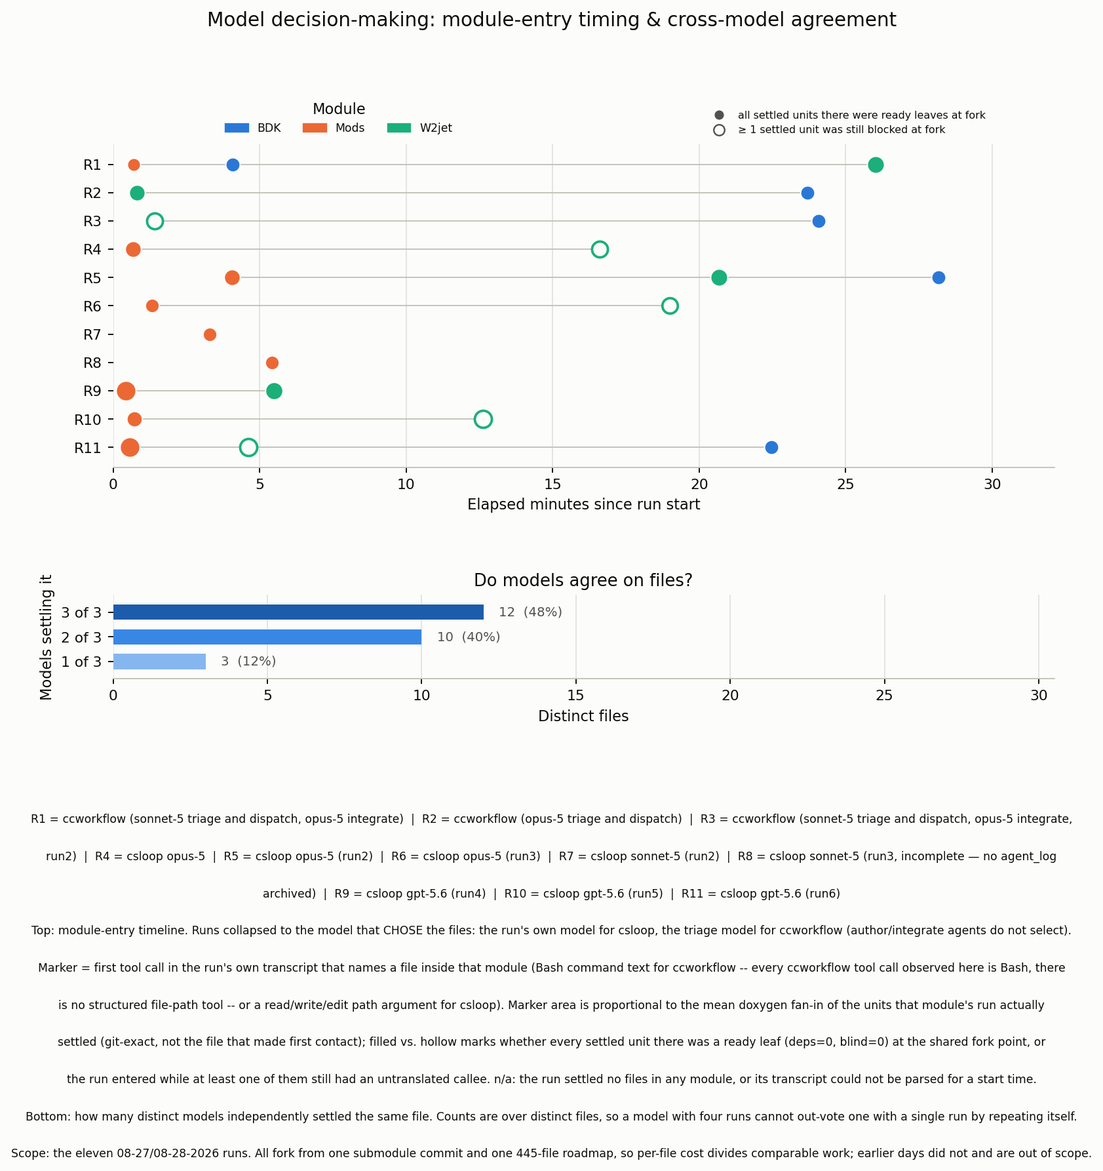
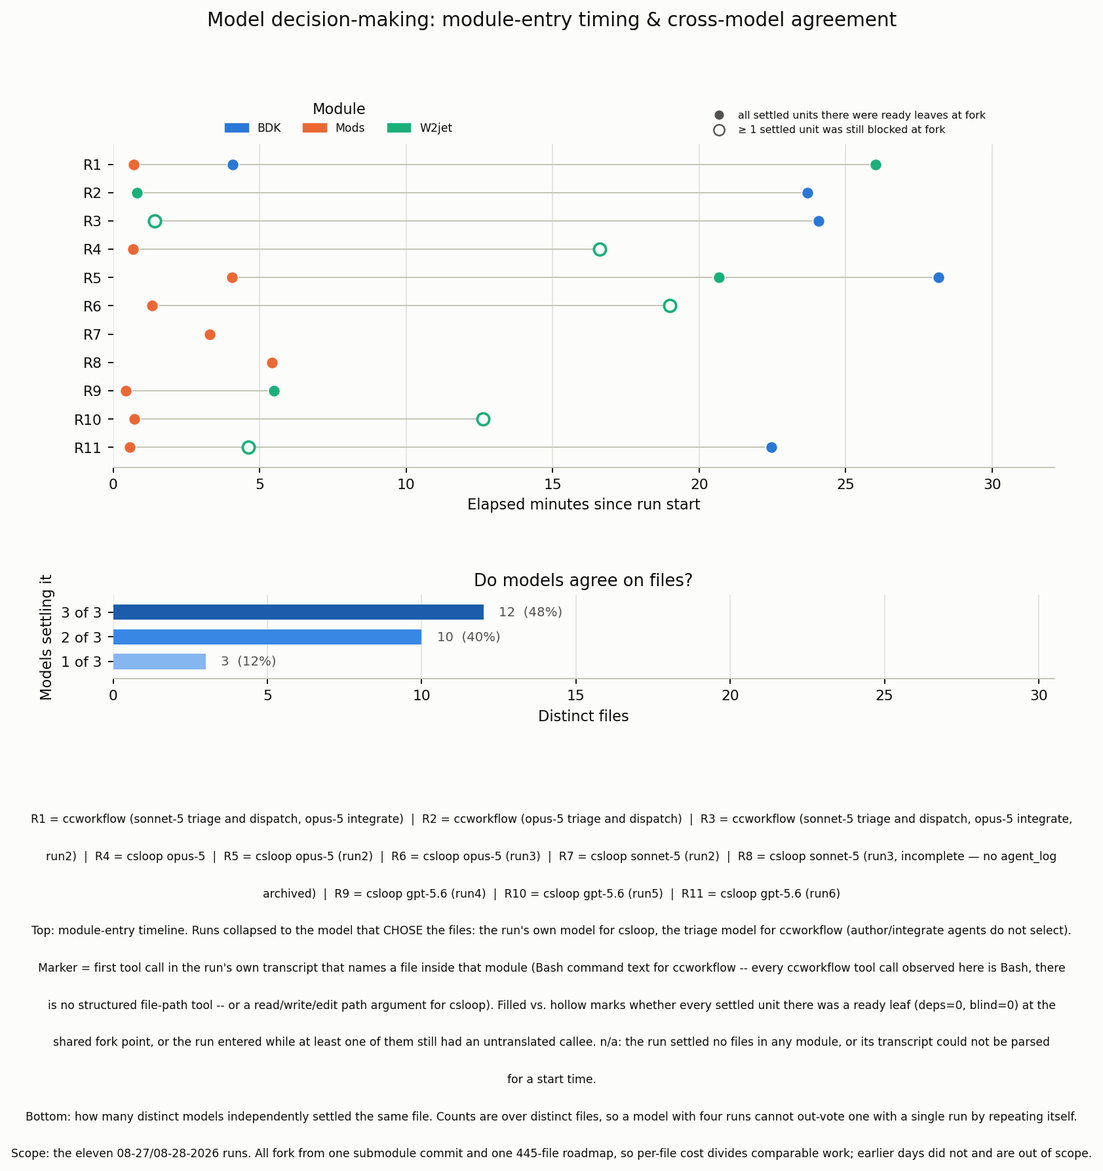
Fix figures after a review

diff --git a/evals/analysis/generate_graphs.py b/evals/analysis/generate_graphs.py
@@ -1094,12 +1094,12 @@ def load_module_timelines(translated_units, attrs):
     return out
 
 
-def _timeline_marker_size(fanin_mean):
-    """Scatter `s` (an AREA in points^2) from mean fan-in, sqrt-scaled so the
-    drawn area — not the radius — tracks the value. A module whose settled
-    units carry no recovered doxygen attributes at all draws at the floor size
-    rather than vanishing."""
-    return 34 if fanin_mean is None else 34 + 46 * (fanin_mean ** 0.5)
+TIMELINE_MARKER_SIZE = 60
+"""Scatter `s` (points^2), constant across markers. Fan-in used to set marker
+area (sqrt-scaled) as a third encoded dimension alongside color (module) and
+fill/hollow (ready-leaf); dropped because three simultaneous encodings on one
+small scatter read as clutter rather than signal, and the fan-in values
+themselves are already discussed in the surrounding text."""
 
 
 def draw_module_timeline_panel(ax, timelines, letter=None):
@@ -1122,13 +1122,12 @@ def draw_module_timeline_panel(ax, timelines, letter=None):
         ax.plot(xs, [y] * len(xs), color=AXIS, lw=0.8, zorder=1)
         for e in entries:
             color = MODULE_COLOR.get(e["module"], MUTED)
-            size = _timeline_marker_size(e["fanin_mean"])
             all_ready = e["n_settled"] > 0 and e["n_ready_leaf"] == e["n_settled"]
             if all_ready:
-                ax.scatter([e["elapsed_min"]], [y], s=size, color=color, zorder=3,
+                ax.scatter([e["elapsed_min"]], [y], s=TIMELINE_MARKER_SIZE, color=color, zorder=3,
                            edgecolor=SURFACE, linewidth=0.8)
             else:
-                ax.scatter([e["elapsed_min"]], [y], s=size, facecolor=SURFACE, zorder=3,
+                ax.scatter([e["elapsed_min"]], [y], s=TIMELINE_MARKER_SIZE, facecolor=SURFACE, zorder=3,
                            edgecolor=color, linewidth=1.6)
 
     ax.set_yticks(range(len(KEYS)))
@@ -1199,12 +1198,11 @@ def make_decision_figure(translated_units, decision_models, module_timelines):
         + _wrap_caption_text(
             "Marker = first tool call in the run's own transcript that names a file inside that module "
             "(Bash command text for ccworkflow -- every ccworkflow tool call observed here is Bash, there "
-            "is no structured file-path tool -- or a read/write/edit path argument for csloop). Marker "
-            "area is proportional to the mean doxygen fan-in of the units that module's run actually "
-            "settled (git-exact, not the file that made first contact); filled vs. hollow marks whether "
-            "every settled unit there was a ready leaf (deps=0, blind=0) at the shared fork point, or the "
-            "run entered while at least one of them still had an untranslated callee. n/a: the run "
-            "settled no files in any module, or its transcript could not be parsed for a start time.", 9.6)
+            "is no structured file-path tool -- or a read/write/edit path argument for csloop). Filled vs. "
+            "hollow marks whether every settled unit there was a ready leaf (deps=0, blind=0) at the "
+            "shared fork point, or the run entered while at least one of them still had an untranslated "
+            "callee. n/a: the run settled no files in any module, or its transcript could not be parsed "
+            "for a start time.", 9.6)
         + [
             "Bottom: how many distinct models independently settled the same file. Counts are over "
             "distinct files, so a model with four runs cannot out-vote one with a single run by "
@@ -1924,13 +1922,55 @@ def _panel_frontier(metrics):
         "]\n"
     ]
 
-    # Label placement is a small packing problem, not an alternation. The csloop
-    # points cluster inside about 1mm of each other at the printed panel width,
-    # so a fixed rule (all labels above, or above/below by x order) puts two
-    # labels in the same place whenever the y ordering disagrees with the x
-    # ordering, which it does here. Instead each label tries eight positions
-    # around its mark and takes the first that hits neither another mark nor an
-    # already-placed label.
+    # Six csloop runs land within about a tenth of the axis range of each
+    # other -- individually legible labels for all six is not a placement
+    # problem to solve harder, it is a claim the panel cannot back: at this
+    # scale the six really are indistinguishable, which is exactly what the
+    # text says about them. So a tight group (>=3 points within CLUSTER_TOL
+    # of each other in both dimensions, Chebyshev-style) gets its marks
+    # plotted but not individually labeled; one compact note names the group
+    # instead, the same mechanism already used below for off-scale and
+    # unplotted runs.
+    CLUSTER_TOL = 0.1
+
+    def _norm(x, y):
+        return x / xmax, y / ymax
+
+    def _cluster_group(points):
+        n = len(points)
+        parent = list(range(n))
+
+        def find(a):
+            while parent[a] != a:
+                a = parent[a]
+            return a
+
+        for i in range(n):
+            xi, yi = _norm(points[i][0], points[i][1])
+            for j in range(i + 1, n):
+                xj, yj = _norm(points[j][0], points[j][1])
+                if abs(xi - xj) < CLUSTER_TOL and abs(yi - yj) < CLUSTER_TOL:
+                    ra, rb = find(i), find(j)
+                    if ra != rb:
+                        parent[ra] = rb
+        groups = {}
+        for i in range(n):
+            groups.setdefault(find(i), []).append(i)
+        clustered = set()
+        for g in groups.values():
+            if len(g) >= 3:
+                clustered.update(g)
+        return clustered
+
+    cluster_idx = _cluster_group(on_scale)
+    cluster_pts = [on_scale[i] for i in sorted(cluster_idx)]
+    labeled_scale = [p for i, p in enumerate(on_scale) if i not in cluster_idx]
+
+    # Label placement is a small packing problem, not an alternation. A fixed
+    # rule (all labels above, or above/below by x order) puts two labels in
+    # the same place whenever the y ordering disagrees with the x ordering.
+    # Instead each label tries eight positions around its mark and takes the
+    # first that hits neither another mark nor an already-placed label.
     #
     # Labels carry the full bold run code ("R3", not "3"). An earlier version
     # dropped the "R" to fit sixteen runs into this panel; at seven there is
@@ -1939,8 +1979,13 @@ def _panel_frontier(metrics):
     #
     # Geometry is done in axis fractions so x and y are comparable. The label
     # box is measured for a two-character bold \scriptsize code at the printed
-    # panel size; a three-character code (R10 and up) would need LABEL_W raised.
+    # panel size; a three-character code (R10, R11) gets a proportionally
+    # wider box below so it doesn't sit closer to its neighbors or the axis
+    # than its printed width actually is.
     LABEL_W, LABEL_H, MARK_R = 0.075, 0.085, 0.022
+
+    def _label_w(code):
+        return LABEL_W if len(code) <= 2 else LABEL_W * len(code) / 2
     # (anchor, dx, dy) in half-box units, in preference order: directly above or
     # below first, since those keep the label over its own x position.
     CANDIDATES = [
@@ -1949,9 +1994,14 @@ def _panel_frontier(metrics):
         ("south west", 0.8, 0.8), ("south east", -0.8, 0.8),
         ("north west", 0.8, -0.8), ("north east", -0.8, -0.8),
     ]
-
-    def _norm(x, y):
-        return x / xmax, y / ymax
+    # csloop's opus-5/gpt-5.6 runs (R4, R9, R10, R11) land within a few percent
+    # of xmax/ymax of each other, close enough that no candidate at the base
+    # reach clears both the marks and one another. Rather than accept the
+    # overlap, each ring below pushes the label twice as far from its mark as
+    # the last; a label placed beyond the first ring gets a thin leader line
+    # back to its mark so it still reads as that point's label rather than a
+    # stray number floating nearby.
+    RING_MULTS = [1.0, 2.0, 3.5, 5.0]
 
     marks = [_norm(x, y) for x, y, _, _ in on_scale]
 
@@ -1962,35 +2012,46 @@ def _panel_frontier(metrics):
 
     placed_boxes = []
     place_of = {}
-    for (px, py, code, _) in on_scale:
+    leader_of = {}
+    for (px, py, code, _) in labeled_scale:
         nx, ny = _norm(px, py)
-        best, best_cost = None, None
-        for anchor, dx, dy in CANDIDATES:
-            cx = nx + dx * (LABEL_W / 2 + MARK_R)
-            cy = ny + dy * (LABEL_H / 2 + MARK_R)
-            box = (cx - LABEL_W / 2, cy - LABEL_H / 2, cx + LABEL_W / 2, cy + LABEL_H / 2)
-            # Off-axis placements are unusable: the label gets clipped.
-            if box[0] < 0 or box[2] > 1.0 or box[1] < 0 or box[3] > 1.0:
-                continue
-            hits = sum(1 for m in marks
-                       if _overlaps(box, (m[0] - MARK_R, m[1] - MARK_R,
-                                          m[0] + MARK_R, m[1] + MARK_R)))
-            hits += sum(1 for b in placed_boxes if _overlaps(box, b))
-            if hits == 0:
-                best, best_cost = (anchor, dx, dy, box), 0
+        lw = _label_w(code)
+        best, best_cost, best_mult = None, None, 1.0
+        for mult in RING_MULTS:
+            ring_best, ring_cost = None, None
+            for anchor, dx, dy in CANDIDATES:
+                cx = nx + dx * (lw / 2 + MARK_R) * mult
+                cy = ny + dy * (LABEL_H / 2 + MARK_R) * mult
+                box = (cx - lw / 2, cy - LABEL_H / 2, cx + lw / 2, cy + LABEL_H / 2)
+                # Off-axis placements are unusable: the label gets clipped.
+                if box[0] < 0 or box[2] > 1.0 or box[1] < 0 or box[3] > 1.0:
+                    continue
+                hits = sum(1 for m in marks
+                           if _overlaps(box, (m[0] - MARK_R, m[1] - MARK_R,
+                                              m[0] + MARK_R, m[1] + MARK_R)))
+                hits += sum(1 for b in placed_boxes if _overlaps(box, b))
+                if hits == 0:
+                    ring_best, ring_cost = (anchor, dx, dy, box, cx, cy), 0
+                    break
+                if ring_cost is None or hits < ring_cost:
+                    ring_best, ring_cost = (anchor, dx, dy, box, cx, cy), hits
+            if ring_best is not None and (best_cost is None or ring_cost < best_cost):
+                best, best_cost, best_mult = ring_best, ring_cost, mult
+            if best_cost == 0:
                 break
-            if best_cost is None or hits < best_cost:
-                best, best_cost = (anchor, dx, dy, box), hits
         if best is None:
             best = (CANDIDATES[0][0], 0.0, 1.0,
-                    (nx - LABEL_W / 2, ny, nx + LABEL_W / 2, ny + LABEL_H))
-        anchor, dx, dy, box = best
+                    (nx - lw / 2, ny, nx + lw / 2, ny + LABEL_H),
+                    nx, ny + LABEL_H / 2 + MARK_R)
+        anchor, dx, dy, box, cx, cy = best
         placed_boxes.append(box)
         # pgfplots shifts from the mark, so convert the half-box offset back
         # into points along each axis.
         place_of[code] = (anchor,
-                          f"{dx * 2.2:.2g}pt",
-                          f"{dy * 2.2:.2g}pt")
+                          f"{dx * 2.2 * best_mult:.2g}pt",
+                          f"{dy * 2.2 * best_mult:.2g}pt")
+        if best_mult > 1.0:
+            leader_of[code] = (cx * xmax, cy * ymax)
 
     for harness, color in [("ccworkflow", "evalBlue"), ("csloop", "evalOrange")]:
         pts = [p for p in on_scale if p[3] == harness]
@@ -2000,6 +2061,14 @@ def _panel_frontier(metrics):
             + "};\n"
         )
         for x, y, code, _ in pts:
+            if code not in place_of:
+                continue  # part of the dense cluster; named in the note instead
+            if code in leader_of:
+                lx, ly = leader_of[code]
+                lines.append(
+                    f"\\draw[evalGrid, line width=0.3pt] (axis cs:{x:.3g},{y:.3g}) -- "
+                    f"(axis cs:{lx:.3g},{ly:.3g});\n"
+                )
             anchor, xshift, yshift = place_of[code]
             lines.append(
                 f"\\node[font=\\scriptsize\\bfseries, color=evalInk, anchor={anchor}, "
@@ -2017,6 +2086,15 @@ def _panel_frontier(metrics):
     notes = [
         f"{code} off scale:\\\\{x:.0f}\\,min, \\${y:.0f}/file" for x, y, code, _ in off_scale
     ]
+
+    if cluster_pts:
+        cluster_codes = [code for _, _, code, _ in cluster_pts]
+        cxs = [x for x, _, _, _ in cluster_pts]
+        cys = [y for _, y, _, _ in cluster_pts]
+        notes.append(f"{_compact_codes(cluster_codes)} cluster (not")
+        notes.append("individually labeled):")
+        notes.append(f"{min(cxs):.1f}\\,--\\,{max(cxs):.1f}\\,min,")
+        notes.append(f"\\${min(cys):.2f}\\,--\\,\\${max(cys):.2f}/file")
 
     # A run needs both a per-file cost and a per-file time to be a point here,
     # so runs that settled nothing or carry no rate card cannot appear at all.
@@ -2281,11 +2359,9 @@ def _tikz_panel_agreement(buckets, n_models):
     )
 
 
-def _tikz_timeline_marker_size_pt(fanin_mean):
-    """Node `minimum size` in pt (an absolute unit, unlike an axis-cs circle,
-    which would draw as an ellipse here since minutes and run-rows are on
-    wildly different scales) -- mirrors _timeline_marker_size's sqrt scaling."""
-    return 5.0 if fanin_mean is None else 5.0 + 3.2 * (fanin_mean ** 0.5)
+TIKZ_TIMELINE_MARKER_SIZE_PT = 8.5
+"""Node `minimum size` in pt, constant across markers -- see
+TIMELINE_MARKER_SIZE for why the fan-in-scaled size was dropped."""
 
 
 def _tikz_panel_timeline(module_timelines):
@@ -2316,12 +2392,11 @@ def _tikz_panel_timeline(module_timelines):
             body_lines.append(f"\\draw[evalAxis, line width=0.5pt] {coord_str};\n")
         for e in entries:
             color = TEX_MODULE_COLOR.get(e["module"], "evalInkStrong")
-            size = _tikz_timeline_marker_size_pt(e["fanin_mean"])
             all_ready = e["n_settled"] > 0 and e["n_ready_leaf"] == e["n_settled"]
             style = (f"fill={color}, draw=evalSurface, line width=0.6pt" if all_ready
                      else f"fill=evalSurface, draw={color}, line width=1.1pt")
             body_lines.append(
-                f"\\node[circle, {style}, minimum size={size:.2f}pt, inner sep=0pt] "
+                f"\\node[circle, {style}, minimum size={TIKZ_TIMELINE_MARKER_SIZE_PT:.2f}pt, inner sep=0pt] "
                 f"at (axis cs:{e['elapsed_min']:.3g},{y}) {{}};\n"
             )
 
@@ -2371,12 +2446,11 @@ def write_tikz_decision_figure(translated_units, decision_models, module_timelin
         TEX_DATA_BANNER,
         "%% Decision-making figure. Requires pgfplots + the groupplots library\n"
         "%% and the evalXxx colours, both set up in jss-submission.sty. Top panel:\n"
-        "%% module-entry timeline -- marker area is proportional to the mean\n"
-        "%% doxygen fan-in of the units that module's run actually settled (never\n"
-        "%% a merely-explored candidate -- see parse_decision_timeline.py); filled\n"
-        "%% = every settled unit there was a ready leaf (deps=0, blind=0) at the\n"
-        "%% shared fork point, hollow = at least one was entered while something\n"
-        "%% else there still had an untranslated callee. Bottom panel: runs are\n"
+        "%% module-entry timeline -- marker color is the module; filled = every\n"
+        "%% settled unit there was a ready leaf (deps=0, blind=0) at the shared\n"
+        "%% fork point, hollow = at least one was entered while something else\n"
+        "%% there still had an untranslated callee (see parse_decision_timeline.py\n"
+        "%% for what counts as \"settled\" here). Bottom panel: runs are\n"
         "%% collapsed to the model that CHOSE the files (the run's own model for\n"
         "%% csloop, the TRIAGE model for ccworkflow), and counts are over DISTINCT\n"
         "%% files, so a model with four runs cannot out-vote one with a single run\n"

diff --git a/evals/analysis/tex/fig_decision.tex b/evals/analysis/tex/fig_decision.tex
@@ -8,12 +8,11 @@
 %% from different roadmap states and are deliberately out of scope.
 %% Decision-making figure. Requires pgfplots + the groupplots library
 %% and the evalXxx colours, both set up in jss-submission.sty. Top panel:
-%% module-entry timeline -- marker area is proportional to the mean
-%% doxygen fan-in of the units that module's run actually settled (never
-%% a merely-explored candidate -- see parse_decision_timeline.py); filled
-%% = every settled unit there was a ready leaf (deps=0, blind=0) at the
-%% shared fork point, hollow = at least one was entered while something
-%% else there still had an untranslated callee. Bottom panel: runs are
+%% module-entry timeline -- marker color is the module; filled = every
+%% settled unit there was a ready leaf (deps=0, blind=0) at the shared
+%% fork point, hollow = at least one was entered while something else
+%% there still had an untranslated callee (see parse_decision_timeline.py
+%% for what counts as "settled" here). Bottom panel: runs are
 %% collapsed to the model that CHOSE the files (the run's own model for
 %% csloop, the TRIAGE model for ccworkflow), and counts are over DISTINCT
 %% files, so a model with four runs cannot out-vote one with a single run
@@ -31,37 +30,37 @@
   xlabel={Elapsed minutes since run start},
 ]
 \draw[evalAxis, line width=0.5pt] (axis cs:0.573,0) -- (axis cs:4.61,0) -- (axis cs:22.5,0);
-\node[circle, fill=evalOrange, draw=evalSurface, line width=0.6pt, minimum size=14.05pt, inner sep=0pt] at (axis cs:0.573,0) {};
-\node[circle, fill=evalSurface, draw=evalAqua, line width=1.1pt, minimum size=11.07pt, inner sep=0pt] at (axis cs:4.61,0) {};
-\node[circle, fill=evalBlue, draw=evalSurface, line width=0.6pt, minimum size=8.51pt, inner sep=0pt] at (axis cs:22.5,0) {};
+\node[circle, fill=evalOrange, draw=evalSurface, line width=0.6pt, minimum size=8.50pt, inner sep=0pt] at (axis cs:0.573,0) {};
+\node[circle, fill=evalSurface, draw=evalAqua, line width=1.1pt, minimum size=8.50pt, inner sep=0pt] at (axis cs:4.61,0) {};
+\node[circle, fill=evalBlue, draw=evalSurface, line width=0.6pt, minimum size=8.50pt, inner sep=0pt] at (axis cs:22.5,0) {};
 \draw[evalAxis, line width=0.5pt] (axis cs:0.724,1) -- (axis cs:12.6,1);
-\node[circle, fill=evalOrange, draw=evalSurface, line width=0.6pt, minimum size=9.53pt, inner sep=0pt] at (axis cs:0.724,1) {};
-\node[circle, fill=evalSurface, draw=evalAqua, line width=1.1pt, minimum size=11.07pt, inner sep=0pt] at (axis cs:12.6,1) {};
+\node[circle, fill=evalOrange, draw=evalSurface, line width=0.6pt, minimum size=8.50pt, inner sep=0pt] at (axis cs:0.724,1) {};
+\node[circle, fill=evalSurface, draw=evalAqua, line width=1.1pt, minimum size=8.50pt, inner sep=0pt] at (axis cs:12.6,1) {};
 \draw[evalAxis, line width=0.5pt] (axis cs:0.433,2) -- (axis cs:5.49,2);
-\node[circle, fill=evalOrange, draw=evalSurface, line width=0.6pt, minimum size=14.05pt, inner sep=0pt] at (axis cs:0.433,2) {};
-\node[circle, fill=evalAqua, draw=evalSurface, line width=0.6pt, minimum size=11.40pt, inner sep=0pt] at (axis cs:5.49,2) {};
-\node[circle, fill=evalOrange, draw=evalSurface, line width=0.6pt, minimum size=8.20pt, inner sep=0pt] at (axis cs:5.42,3) {};
-\node[circle, fill=evalOrange, draw=evalSurface, line width=0.6pt, minimum size=8.20pt, inner sep=0pt] at (axis cs:3.3,4) {};
+\node[circle, fill=evalOrange, draw=evalSurface, line width=0.6pt, minimum size=8.50pt, inner sep=0pt] at (axis cs:0.433,2) {};
+\node[circle, fill=evalAqua, draw=evalSurface, line width=0.6pt, minimum size=8.50pt, inner sep=0pt] at (axis cs:5.49,2) {};
+\node[circle, fill=evalOrange, draw=evalSurface, line width=0.6pt, minimum size=8.50pt, inner sep=0pt] at (axis cs:5.42,3) {};
+\node[circle, fill=evalOrange, draw=evalSurface, line width=0.6pt, minimum size=8.50pt, inner sep=0pt] at (axis cs:3.3,4) {};
 \draw[evalAxis, line width=0.5pt] (axis cs:1.34,5) -- (axis cs:19,5);
-\node[circle, fill=evalOrange, draw=evalSurface, line width=0.6pt, minimum size=8.20pt, inner sep=0pt] at (axis cs:1.34,5) {};
-\node[circle, fill=evalSurface, draw=evalAqua, line width=1.1pt, minimum size=9.53pt, inner sep=0pt] at (axis cs:19,5) {};
+\node[circle, fill=evalOrange, draw=evalSurface, line width=0.6pt, minimum size=8.50pt, inner sep=0pt] at (axis cs:1.34,5) {};
+\node[circle, fill=evalSurface, draw=evalAqua, line width=1.1pt, minimum size=8.50pt, inner sep=0pt] at (axis cs:19,5) {};
 \draw[evalAxis, line width=0.5pt] (axis cs:4.07,6) -- (axis cs:20.7,6) -- (axis cs:28.2,6);
-\node[circle, fill=evalOrange, draw=evalSurface, line width=0.6pt, minimum size=10.06pt, inner sep=0pt] at (axis cs:4.07,6) {};
-\node[circle, fill=evalAqua, draw=evalSurface, line width=0.6pt, minimum size=11.07pt, inner sep=0pt] at (axis cs:20.7,6) {};
-\node[circle, fill=evalBlue, draw=evalSurface, line width=0.6pt, minimum size=8.51pt, inner sep=0pt] at (axis cs:28.2,6) {};
+\node[circle, fill=evalOrange, draw=evalSurface, line width=0.6pt, minimum size=8.50pt, inner sep=0pt] at (axis cs:4.07,6) {};
+\node[circle, fill=evalAqua, draw=evalSurface, line width=0.6pt, minimum size=8.50pt, inner sep=0pt] at (axis cs:20.7,6) {};
+\node[circle, fill=evalBlue, draw=evalSurface, line width=0.6pt, minimum size=8.50pt, inner sep=0pt] at (axis cs:28.2,6) {};
 \draw[evalAxis, line width=0.5pt] (axis cs:0.683,7) -- (axis cs:16.6,7);
-\node[circle, fill=evalOrange, draw=evalSurface, line width=0.6pt, minimum size=10.06pt, inner sep=0pt] at (axis cs:0.683,7) {};
-\node[circle, fill=evalSurface, draw=evalAqua, line width=1.1pt, minimum size=9.92pt, inner sep=0pt] at (axis cs:16.6,7) {};
+\node[circle, fill=evalOrange, draw=evalSurface, line width=0.6pt, minimum size=8.50pt, inner sep=0pt] at (axis cs:0.683,7) {};
+\node[circle, fill=evalSurface, draw=evalAqua, line width=1.1pt, minimum size=8.50pt, inner sep=0pt] at (axis cs:16.6,7) {};
 \draw[evalAxis, line width=0.5pt] (axis cs:1.41,8) -- (axis cs:24.1,8);
-\node[circle, fill=evalSurface, draw=evalAqua, line width=1.1pt, minimum size=9.92pt, inner sep=0pt] at (axis cs:1.41,8) {};
-\node[circle, fill=evalBlue, draw=evalSurface, line width=0.6pt, minimum size=8.51pt, inner sep=0pt] at (axis cs:24.1,8) {};
+\node[circle, fill=evalSurface, draw=evalAqua, line width=1.1pt, minimum size=8.50pt, inner sep=0pt] at (axis cs:1.41,8) {};
+\node[circle, fill=evalBlue, draw=evalSurface, line width=0.6pt, minimum size=8.50pt, inner sep=0pt] at (axis cs:24.1,8) {};
 \draw[evalAxis, line width=0.5pt] (axis cs:0.811,9) -- (axis cs:23.7,9);
-\node[circle, fill=evalAqua, draw=evalSurface, line width=0.6pt, minimum size=9.96pt, inner sep=0pt] at (axis cs:0.811,9) {};
-\node[circle, fill=evalBlue, draw=evalSurface, line width=0.6pt, minimum size=8.51pt, inner sep=0pt] at (axis cs:23.7,9) {};
+\node[circle, fill=evalAqua, draw=evalSurface, line width=0.6pt, minimum size=8.50pt, inner sep=0pt] at (axis cs:0.811,9) {};
+\node[circle, fill=evalBlue, draw=evalSurface, line width=0.6pt, minimum size=8.50pt, inner sep=0pt] at (axis cs:23.7,9) {};
 \draw[evalAxis, line width=0.5pt] (axis cs:0.714,10) -- (axis cs:4.08,10) -- (axis cs:26,10);
-\node[circle, fill=evalOrange, draw=evalSurface, line width=0.6pt, minimum size=7.61pt, inner sep=0pt] at (axis cs:0.714,10) {};
-\node[circle, fill=evalBlue, draw=evalSurface, line width=0.6pt, minimum size=8.51pt, inner sep=0pt] at (axis cs:4.08,10) {};
-\node[circle, fill=evalAqua, draw=evalSurface, line width=0.6pt, minimum size=11.07pt, inner sep=0pt] at (axis cs:26,10) {};
+\node[circle, fill=evalOrange, draw=evalSurface, line width=0.6pt, minimum size=8.50pt, inner sep=0pt] at (axis cs:0.714,10) {};
+\node[circle, fill=evalBlue, draw=evalSurface, line width=0.6pt, minimum size=8.50pt, inner sep=0pt] at (axis cs:4.08,10) {};
+\node[circle, fill=evalAqua, draw=evalSurface, line width=0.6pt, minimum size=8.50pt, inner sep=0pt] at (axis cs:26,10) {};
 \node[circle, fill=evalBlue, minimum size=7pt, inner sep=0pt] at (axis cs:23.1,11.300) {};
 \node[font=\scriptsize, color=evalInk, anchor=west, xshift=6pt] at (axis cs:23.1,11.300) {BDK};
 \node[circle, fill=evalOrange, minimum size=7pt, inner sep=0pt] at (axis cs:23.1,12.000) {};

diff --git a/evals/analysis/tex/fig_eval.tex b/evals/analysis/tex/fig_eval.tex
@@ -84,22 +84,13 @@ symbolic x coords={R1,R2,R3,R4,R5,R6,R7,R8,R9,R10,R11}, xtick={R1,R2,R3,R4,R5,R6
 \node[font=\scriptsize\bfseries, color=evalInk, anchor=south, xshift=0pt, yshift=2.2pt, inner sep=0.8pt]
   at (axis cs:6.44,6.03) {R1};
 \addplot[only marks, mark=*, mark size=1.7pt, color=evalOrange] coordinates {(2.54,0.959) (2.9,1.05) (3.01,0.951) (3.13,1.07) (3.42,0.915) (4.35,1.28) (17.2,3.13) (17.3,2.91)};
-\node[font=\scriptsize\bfseries, color=evalInk, anchor=east, xshift=-2.2pt, yshift=0pt, inner sep=0.8pt]
-  at (axis cs:2.54,0.959) {R10};
-\node[font=\scriptsize\bfseries, color=evalInk, anchor=south, xshift=0pt, yshift=2.2pt, inner sep=0.8pt]
-  at (axis cs:2.9,1.05) {R4};
-\node[font=\scriptsize\bfseries, color=evalInk, anchor=north, xshift=0pt, yshift=-2.2pt, inner sep=0.8pt]
-  at (axis cs:3.01,0.951) {R5};
-\node[font=\scriptsize\bfseries, color=evalInk, anchor=south, xshift=0pt, yshift=2.2pt, inner sep=0.8pt]
-  at (axis cs:3.13,1.07) {R6};
-\node[font=\scriptsize\bfseries, color=evalInk, anchor=north, xshift=0pt, yshift=-2.2pt, inner sep=0.8pt]
-  at (axis cs:3.42,0.915) {R11};
-\node[font=\scriptsize\bfseries, color=evalInk, anchor=west, xshift=2.2pt, yshift=0pt, inner sep=0.8pt]
-  at (axis cs:4.35,1.28) {R9};
 \node[font=\scriptsize\bfseries, color=evalInk, anchor=south, xshift=0pt, yshift=2.2pt, inner sep=0.8pt]
   at (axis cs:17.2,3.13) {R8};
 \node[font=\scriptsize\bfseries, color=evalInk, anchor=north, xshift=0pt, yshift=-2.2pt, inner sep=0.8pt]
   at (axis cs:17.3,2.91) {R7};
+\node[font=\scriptsize, color=evalInk, anchor=north east, align=right]
+  at (axis cs:19.2,7.72)
+  {4--6, 9--11 cluster (not\\individually labeled):\\2.5\,--\,4.4\,min,\\\$0.91\,--\,\$1.28/file};
 \nextgroupplot[width=0.305\textwidth, height=4.4cm,
   axis lines=left, axis line style={draw=evalAxis, line width=0.4pt},
   ymajorgrids, grid style={draw=evalGrid, line width=0.4pt},
